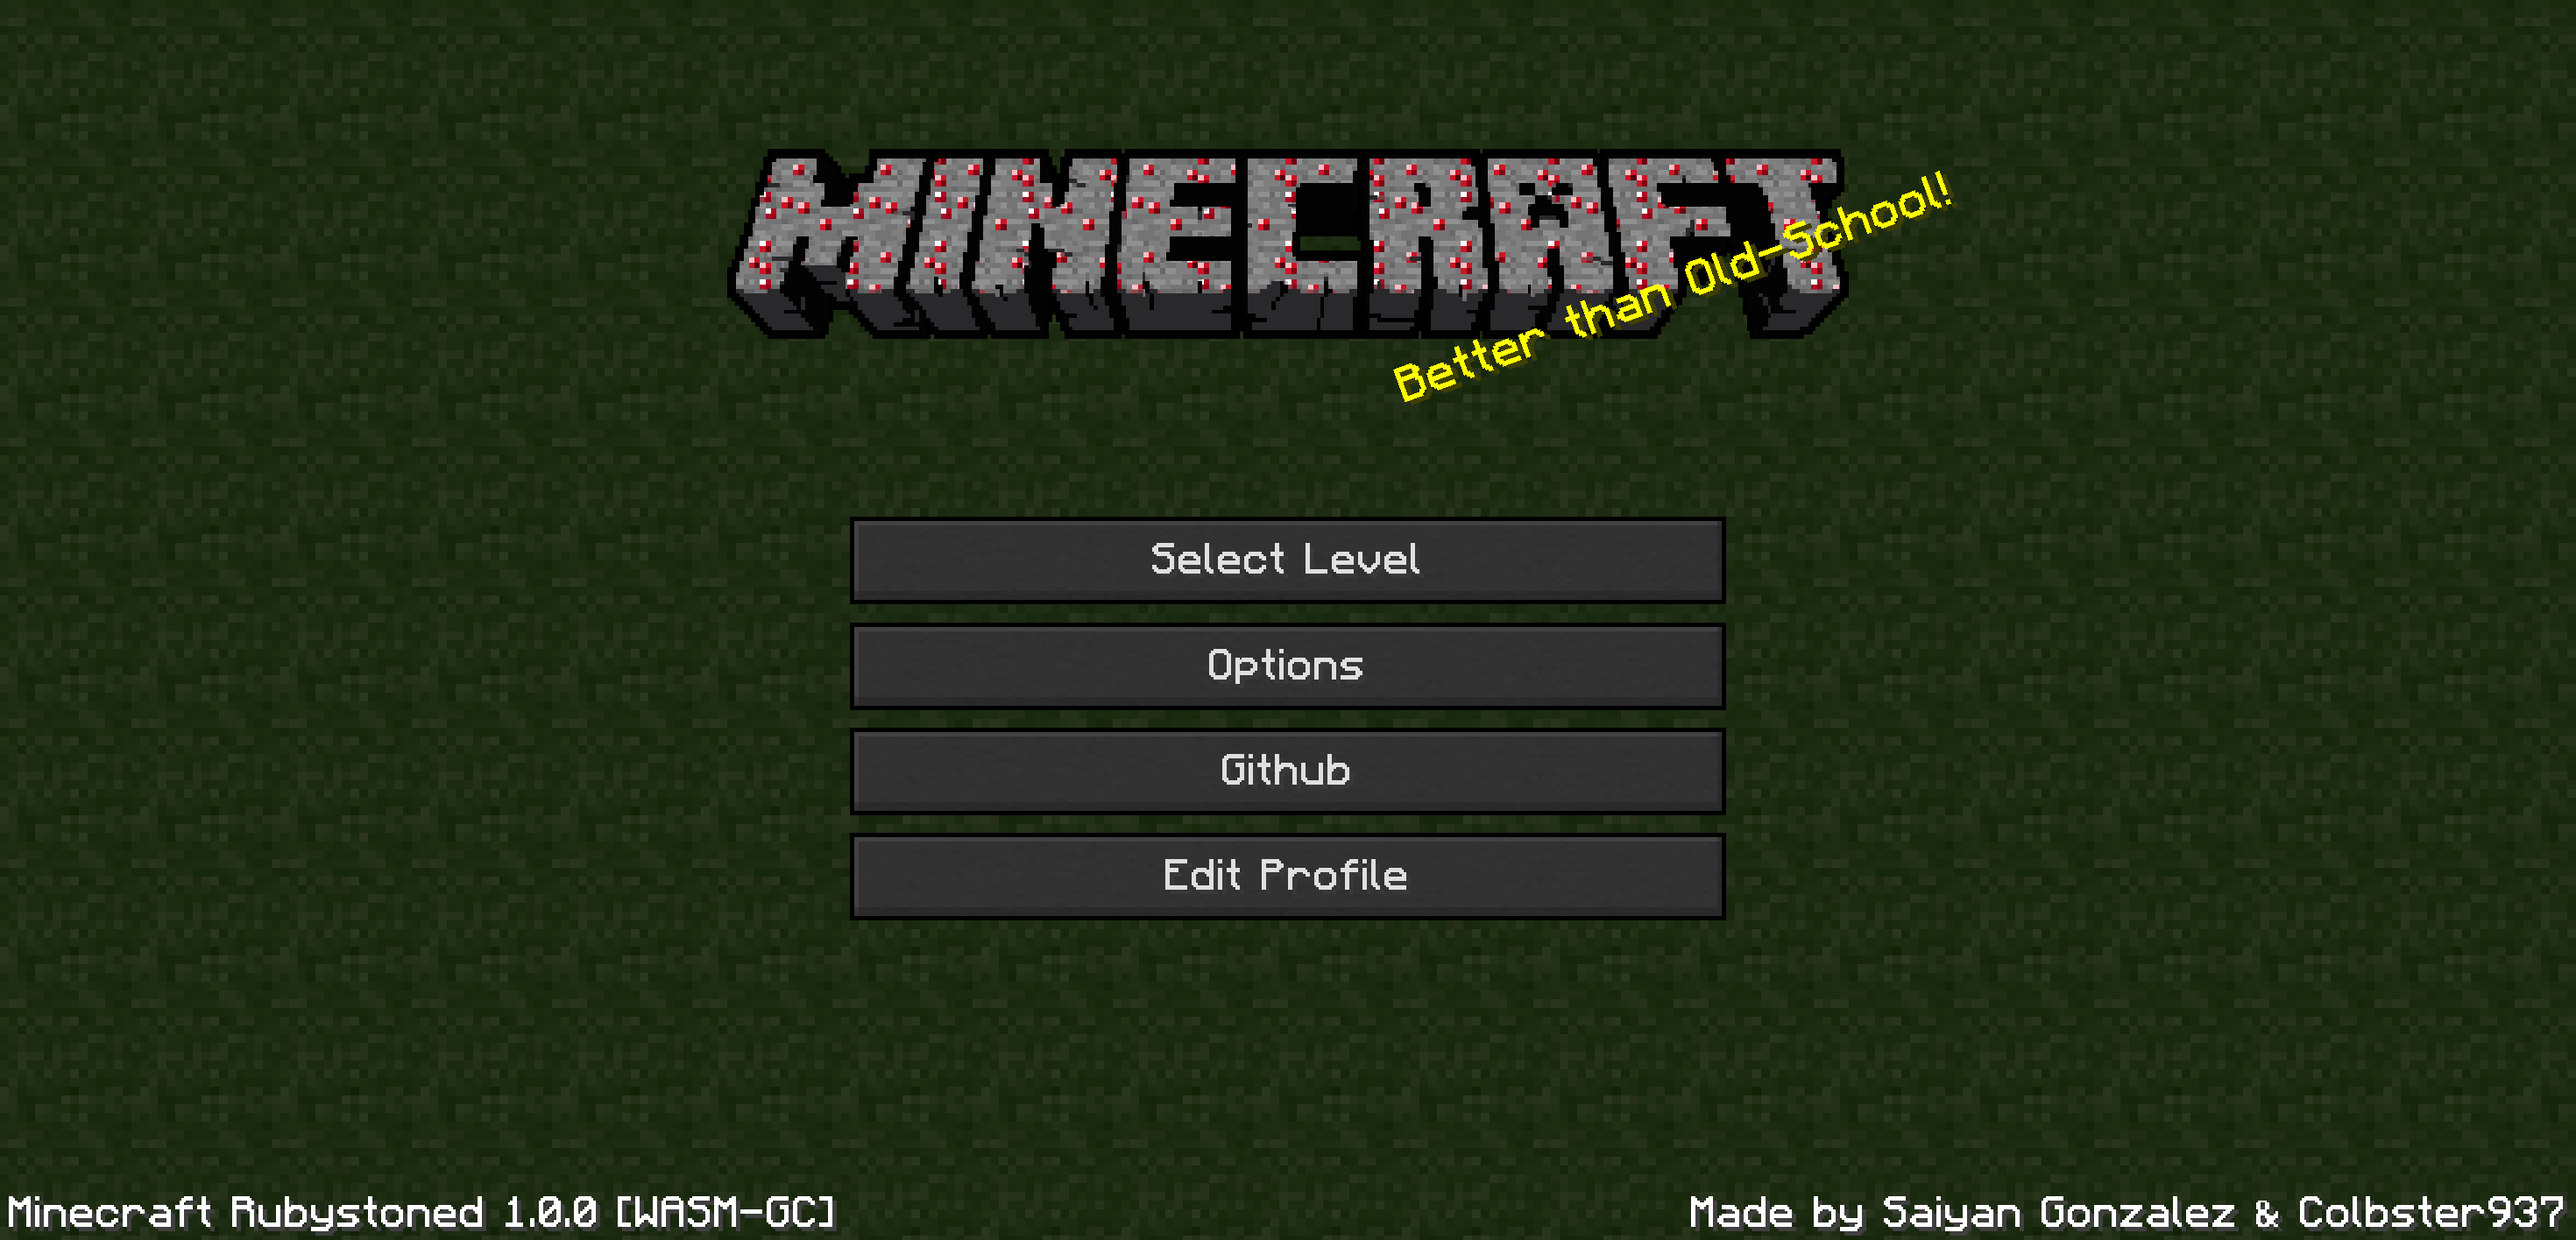
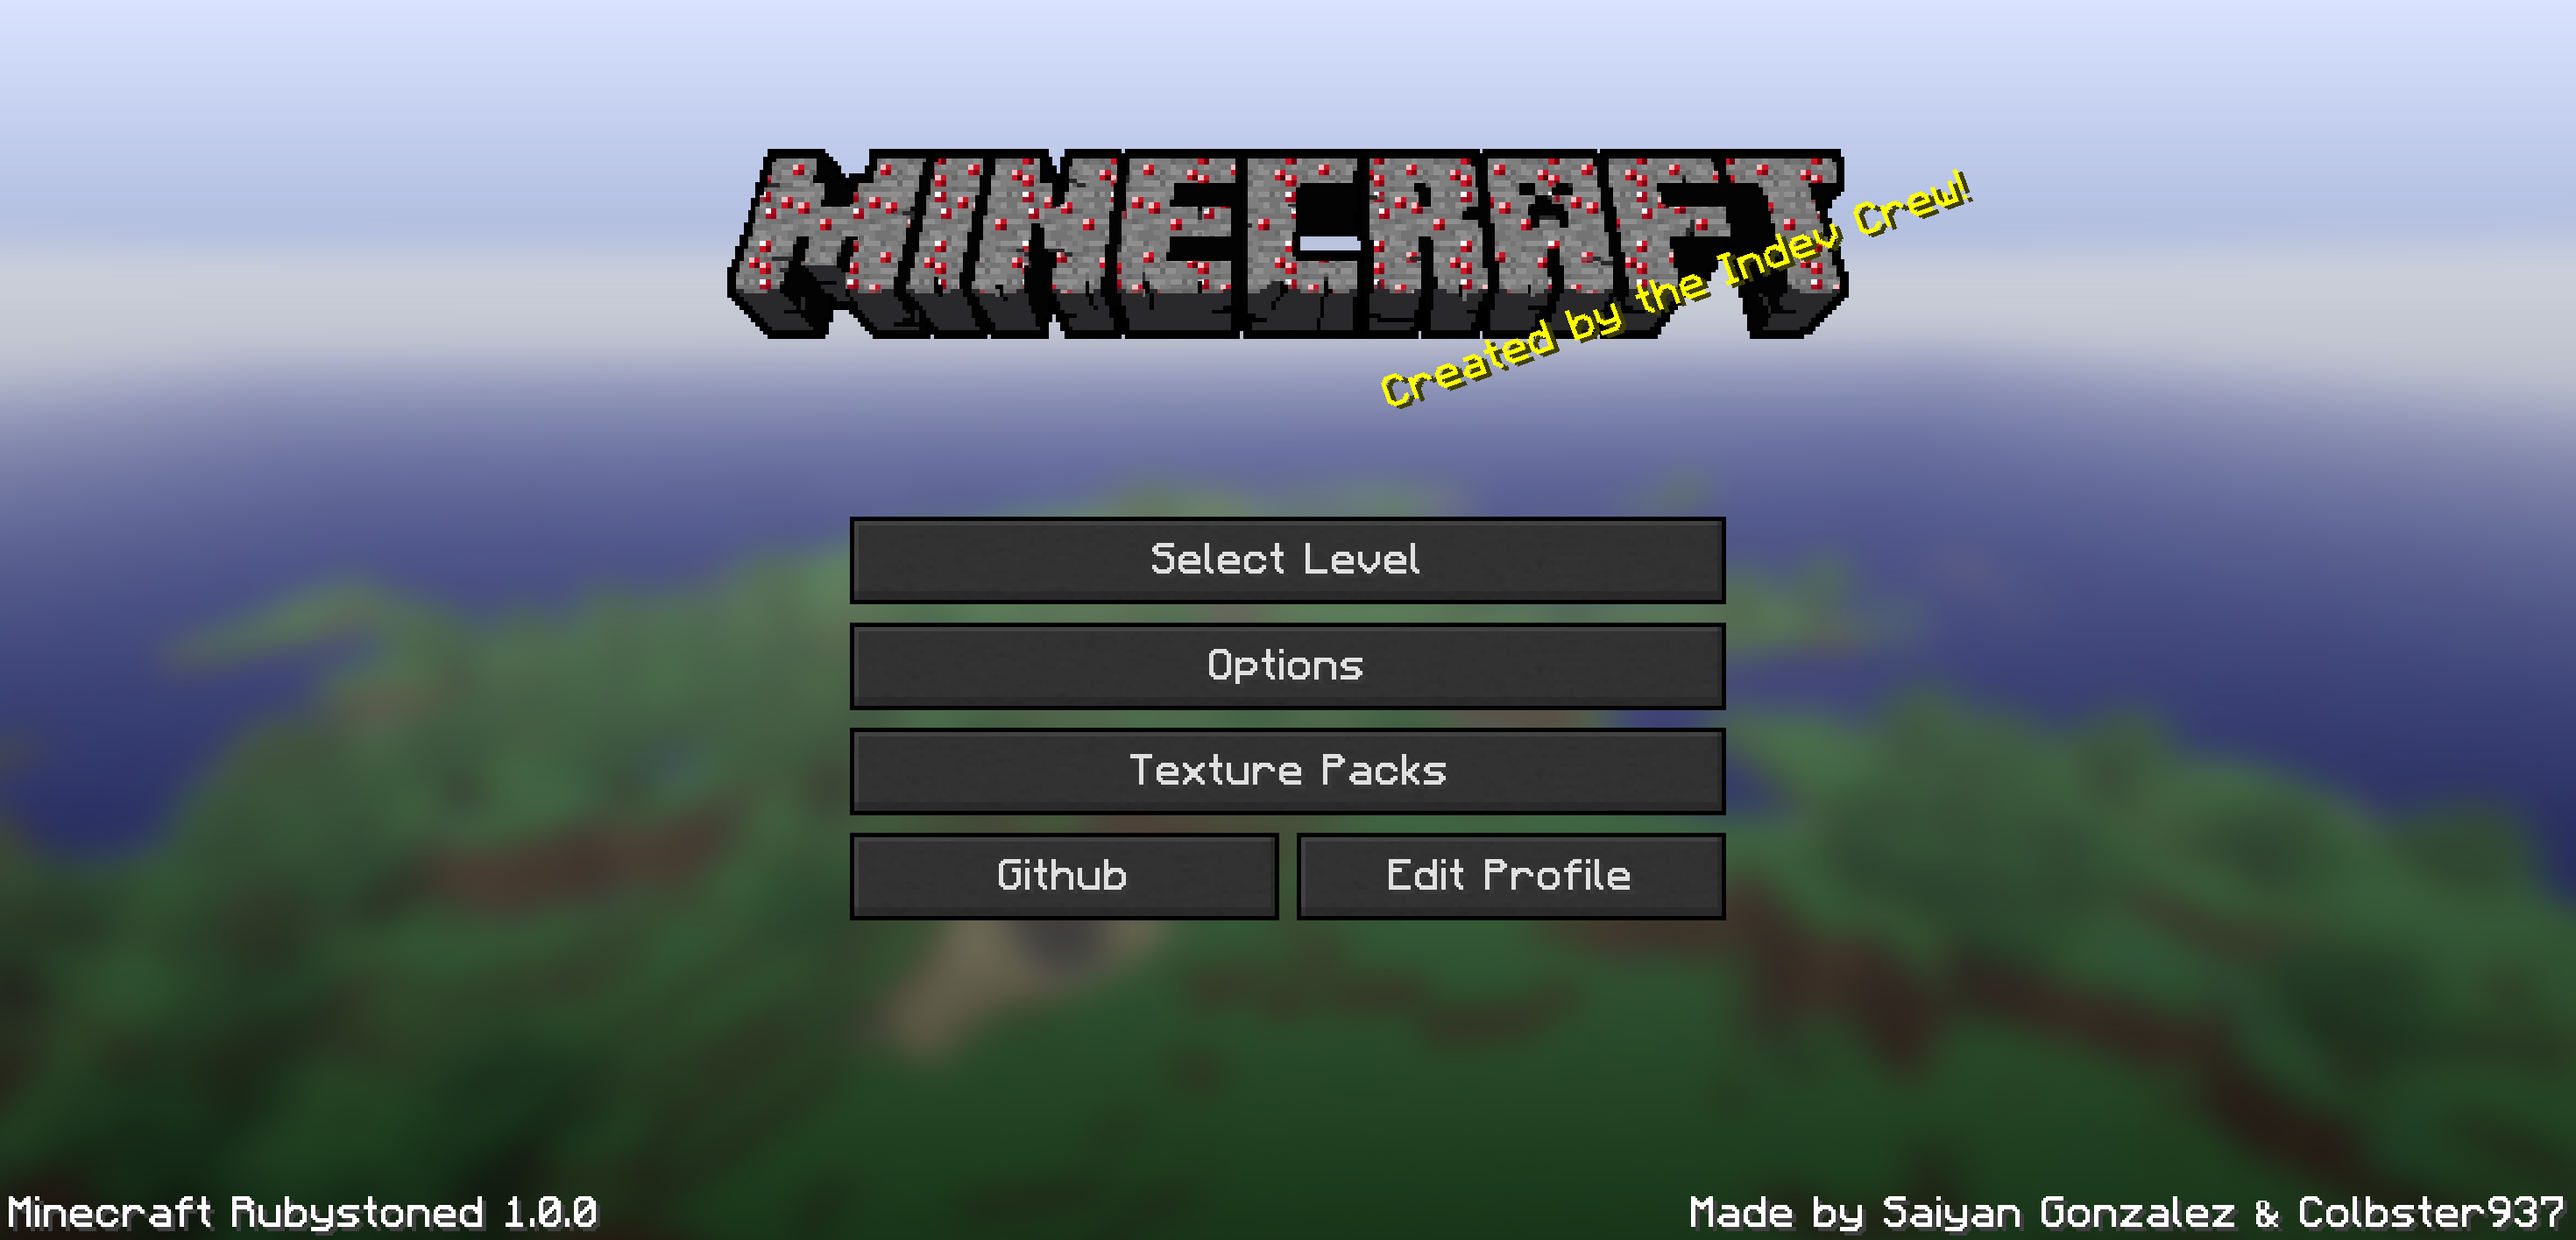
panoramas

diff --git a/src/game/java/net/minecraft/client/GuiMainMenu.java b/src/game/java/net/minecraft/client/GuiMainMenu.java
@@ -1,6 +1,7 @@
 package net.minecraft.client;
 
 import net.lax1dude.eaglercraft.EagRuntime;
+import net.lax1dude.eaglercraft.Random;
 import net.lax1dude.eaglercraft.profile.GuiScreenEditProfile;
 import net.minecraft.client.gui.GuiButton;
 import net.minecraft.client.gui.GuiOptions;
@@ -8,20 +9,39 @@ import net.minecraft.client.gui.GuiScreen;
 import net.minecraft.client.render.Tessellator;
 
 import rubystoned.gui.GuiSelectWorld;
+import rubystoned.gui.GuiTexturePacks;
+
+import java.io.BufferedReader;
+import java.io.InputStreamReader;
+import java.util.ArrayList;
 
 import org.lwjgl.opengl.GL11;
 
 import dev.colbster937.eaglercraft.EaglercraftVersion;
+import dev.colbster937.eaglercraft.rp.TexturePack;
 import dev.colbster937.eaglercraft.storage.SaveUtils;
 
 import util.MathHelper;
 
 public final class GuiMainMenu extends GuiScreen {
+	private static final Random rand = new Random();
 	private float updateCounter = 0.0F;
-	private String[] splashes = new String[] {"Rubystoned!", "Better than Old-School!", "colbster nine hundred thirty seven!", "One star, deal with it Saiyan!", "Created by the Indev Crew!", "Bro did you see that man with white eyes?", "Stop fucking with the microwave!", "Indev+ port when?", "You can do anything!", "aple", "Infinity!"}; // {"Pre-beta!", "As seen on TV!", "Awesome!", "100% pure!", "May contain nuts!", "Better than Prey!", "More polygons!", "Sexy!", "Limited edition!", "Flashing letters!", "Made by Notch!", "Coming soon!", "Best in class!", "When it\'s finished!", "Absolutely dragon free!", "Excitement!", "More than 5000 sold!", "One of a kind!", "700+ hits on YouTube!", "Indev!", "Spiders everywhere!", "Check it out!", "Holy cow, man!", "It\'s a game!", "Made in Sweden!", "Uses LWJGL!", "Reticulating splines!", "Minecraft!", "Yaaay!", "Alpha version!", "Singleplayer!", "Keyboard compatible!", "Undocumented!", "Ingots!", "Exploding creepers!", "That\'s not a moon!", "l33t!", "Create!", "Survive!", "Dungeon!", "Exclusive!", "The bee\'s knees!", "Down with O.P.P.!", "Closed source!", "Classy!", "Wow!", "Not on steam!", "9.95 euro!", "Half price!", "Oh man!", "Check it out!", "Awesome community!", "Pixels!", "Teetsuuuuoooo!", "Kaaneeeedaaaa!", "Now with difficulty!", "Enhanced!", "90% bug free!", "Pretty!", "12 herbs and spices!", "Fat free!", "Absolutely no memes!", "Free dental!", "Ask your doctor!", "Minors welcome!", "Cloud computing!", "Legal in Finland!", "Hard to label!", "Technically good!", "Bringing home the bacon!", "Indie!", "GOTY!", "Ceci n\'est pas une title screen!", "Euclidian!", "Now in 3D!", "Inspirational!", "Herregud!", "Complex cellular automata!", "Yes, sir!", "Played by cowboys!", "OpenGL 1.1!", "Thousands of colors!", "Try it!", "Age of Wonders is better!", "Try the mushroom stew!", "Sensational!", "Hot tamale, hot hot tamale!", "Play him off, keyboard cat!", "Guaranteed!", "Macroscopic!", "Bring it on!", "Random splash!", "Call your mother!", "Monster infighting!", "Loved by millions!", "Ultimate edition!", "Freaky!", "You\'ve got a brand new key!", "Water proof!", "Uninflammable!", "Whoa, dude!", "All inclusive!", "Tell your friends!", "NP is not in P!", "Notch <3 Ez!", "Music by C418!"};
-	private String currentSplash = this.splashes[(int)(Math.random() * (double)this.splashes.length)];
+	// private String[] splashes = new String[] {"Pre-beta!", "As seen on TV!", "Awesome!", "100% pure!", "May contain nuts!", "Better than Prey!", "More polygons!", "Sexy!", "Limited edition!", "Flashing letters!", "Made by Notch!", "Coming soon!", "Best in class!", "When it\'s finished!", "Absolutely dragon free!", "Excitement!", "More than 5000 sold!", "One of a kind!", "700+ hits on YouTube!", "Indev!", "Spiders everywhere!", "Check it out!", "Holy cow, man!", "It\'s a game!", "Made in Sweden!", "Uses LWJGL!", "Reticulating splines!", "Minecraft!", "Yaaay!", "Alpha version!", "Singleplayer!", "Keyboard compatible!", "Undocumented!", "Ingots!", "Exploding creepers!", "That\'s not a moon!", "l33t!", "Create!", "Survive!", "Dungeon!", "Exclusive!", "The bee\'s knees!", "Down with O.P.P.!", "Closed source!", "Classy!", "Wow!", "Not on steam!", "9.95 euro!", "Half price!", "Oh man!", "Check it out!", "Awesome community!", "Pixels!", "Teetsuuuuoooo!", "Kaaneeeedaaaa!", "Now with difficulty!", "Enhanced!", "90% bug free!", "Pretty!", "12 herbs and spices!", "Fat free!", "Absolutely no memes!", "Free dental!", "Ask your doctor!", "Minors welcome!", "Cloud computing!", "Legal in Finland!", "Hard to label!", "Technically good!", "Bringing home the bacon!", "Indie!", "GOTY!", "Ceci n\'est pas une title screen!", "Euclidian!", "Now in 3D!", "Inspirational!", "Herregud!", "Complex cellular automata!", "Yes, sir!", "Played by cowboys!", "OpenGL 1.1!", "Thousands of colors!", "Try it!", "Age of Wonders is better!", "Try the mushroom stew!", "Sensational!", "Hot tamale, hot hot tamale!", "Play him off, keyboard cat!", "Guaranteed!", "Macroscopic!", "Bring it on!", "Random splash!", "Call your mother!", "Monster infighting!", "Loved by millions!", "Ultimate edition!", "Freaky!", "You\'ve got a brand new key!", "Water proof!", "Uninflammable!", "Whoa, dude!", "All inclusive!", "Tell your friends!", "NP is not in P!", "Notch <3 Ez!", "Music by C418!"};
+	// private String currentSplash = this.splashes[(int)(Math.random() * (double)this.splashes.length)];
+	private String splashText = "missingno";
 
 	private static final String[] ts = EaglercraftVersion.getTitleString();
+
+	public GuiMainMenu() {
+		try {
+			ArrayList<String> lst = new ArrayList<>();
+			BufferedReader reader = new BufferedReader(new InputStreamReader(TexturePack.getResourceAsStream("/splashes.txt")));
+			String txt;
+			while ((txt = reader.readLine()) != null) lst.add(txt.trim());
+			reader.close();
+			this.splashText = lst.get(rand.nextInt(lst.size()));
+		} catch (Throwable t) {}
+	}
 
 	public final void updateScreen() {
 		this.updateCounter += 0.01F;
@@ -34,50 +54,33 @@ public final class GuiMainMenu extends GuiScreen {
 	public final void initGui() {
 		this.controlList.clear();
 		GuiButton b;
-		this.controlList.add(b = new GuiButton(1, this.width / 2 - 100, this.height / 4 + 48, "Select Level"));
-		// this.controlList.add(b = new GuiButton(2, this.width / 2 - 100, this.height / 4 + 72, "Multiplayer"));
-		// b.enabled = false;
-		// this.controlList.add(b = new GuiButton(3, this.width / 2 - 100, this.height / 4 + 96, "Import level.."));
-		// b.enabled = false;
-		this.controlList.add(b = new GuiButton(0, this.width / 2 - 100, this.height / 4 + 120, 98, 20, "Options"));
-		b.width = 200;
-		b.yPosition = this.height / 4 + 72;
+		this.controlList.add(b = new GuiButton(0, this.width / 2 - 100, this.height / 4 + 48, "Select Level"));
+		this.controlList.add(b = new GuiButton(1, this.width / 2 - 100, this.height / 4 + 72, "Options"));
+		this.controlList.add(b = new GuiButton(2, this.width / 2 - 100, this.height / 4 + 96, "Texture Packs"));
+		this.controlList.add(b = new GuiButton(3, this.width / 2 - 100, this.height / 4 + 120, 98, 20, "Github"));
 		this.controlList.add(b = new GuiButton(4, this.width / 2 + 2, this.height / 4 + 120, 98, 20, "Edit Profile"));
-		b.width = 200;
-		b.xPosition = this.width / 2 - 100;
-		this.controlList.add(b = new GuiButton(5, this.width / 2 - 100, this.height / 4 + 96, "Github"));
-		/* ((GuiButton)this.controlList.get(2)).enabled = false;
-		if(this.mc.session == null) {
-			((GuiButton)this.controlList.get(1)).enabled = false;
-		} */
-
 	}
 
 	protected final void actionPerformed(GuiButton var1) {
 		if(var1.id == 0) {
-			this.mc.displayGuiScreen(new GuiOptions(this, this.mc.options));
-		}
-
-		if(var1.id == 1) {
 			this.mc.displayGuiScreen(new GuiSelectWorld(this));
 		}
 
-		/* if(this.mc.session != null && var1.id == 2) {
-			LevelUtils.load(false);
+		if(var1.id == 1) {
+			this.mc.displayGuiScreen(new GuiOptions(this, this.mc.options));
 		}
 
-		if(this.mc.session != null && var1.id == 3) {
-			LevelUtils.load(true);
-		} */
+		if(var1.id == 2) {
+			this.mc.displayGuiScreen(new GuiTexturePacks(this));
+		}
+
+		if(var1.id == 3) {
+			EagRuntime.openLink(EaglercraftVersion.PROJECT_GITHUB);
+		}
 
 		if(var1.id == 4) {
 			this.mc.displayGuiScreen(new GuiScreenEditProfile(this));
 		}
-
-		if(var1.id == 5) {
-			EagRuntime.openLink(EaglercraftVersion.PROJECT_GITHUB);
-		}
-
 	}
 
 	public final void drawScreen(int var1, int var2, float var3) {
@@ -91,9 +94,9 @@ public final class GuiMainMenu extends GuiScreen {
 		GL11.glTranslatef((float)(this.width / 2 + 90), 70.0F, 0.0F);
 		GL11.glRotatef(-20.0F, 0.0F, 0.0F, 1.0F);
 		float var15 = 1.8F - MathHelper.abs(MathHelper.sin((float)(System.currentTimeMillis() % 1000L) / 1000.0F * (float)Math.PI * 2.0F) * 0.1F);
-		var15 = var15 * 100.0F / (float)(this.fontRenderer.getStringWidth(this.currentSplash) + 32);
+		var15 = var15 * 100.0F / (float)(this.fontRenderer.getStringWidth(this.splashText) + 32);
 		GL11.glScalef(var15, var15, var15);
-		drawCenteredString(this.fontRenderer, this.currentSplash, 0, -8, 16776960);
+		drawCenteredString(this.fontRenderer, this.splashText, 0, -8, 16776960);
 		GL11.glPopMatrix();
 		String var16 = "Indev Crew, Distribute & Mod!";
 		var16 = ts[1];

diff --git a/src/game/java/net/minecraft/client/GameSettings.java b/src/game/java/net/minecraft/client/GameSettings.java
@@ -41,7 +41,7 @@ public final class GameSettings {
 	public boolean showCoords = true;
 	
 	public boolean darkGUI = true;
-	public boolean panorama = false;
+	public boolean panorama = true;
 	public String skin = "Default";
 
 	public GameSettings(Minecraft var1, VFile2 var2) {
@@ -183,7 +183,7 @@ public final class GameSettings {
 						this.darkGUI = var5[1].equals("true");
 					}
 
-					if(var5[0].equals("panorama")) {
+					if(var5[0].equals("panoramaNew")) {
 						this.panorama = var5[1].equals("true");
 					}
 
@@ -219,7 +219,7 @@ public final class GameSettings {
 			var1.println("showFramerate:" + this.showFramerate);
 			var1.println("showCoords:" + this.showCoords);
 			var1.println("darkGUI:" + this.darkGUI);
-			var1.println("panorama:" + this.panorama);
+			var1.println("panoramaNew:" + this.panorama);
 			var1.println("skin:" + this.skin);
 
 			for(int var2 = 0; var2 < this.keyBindings.length; ++var2) {

diff --git a/src/game/java/net/minecraft/client/gui/GuiOptions.java b/src/game/java/net/minecraft/client/gui/GuiOptions.java
@@ -22,7 +22,7 @@ public final class GuiOptions extends GuiScreen {
 
 			b = new GuiSmallButton(var1, this.width / 2 - 155 + i % 2 * 160, this.height / 6 + 24 * (i >> 1), this.options.setOptionString(var1));
 			
-			if ((var1 == 11 && !TexturePack.getSelectedPack().supportsDarkGUI()) || var1 == 12) b.enabled = false;
+			if (var1 == 11 && !TexturePack.getSelectedPack().supportsDarkGUI()) b.enabled = false;
 			else if (((var1 + 1) == this.options.numberOfOptions) && ((var1 & 1) == 1)) b = new GuiButton(var1, this.width / 2 - 100, this.height / 6 + 24 * (i >> 1), this.options.setOptionString(var1));
 
 			this.controlList.add(b);
